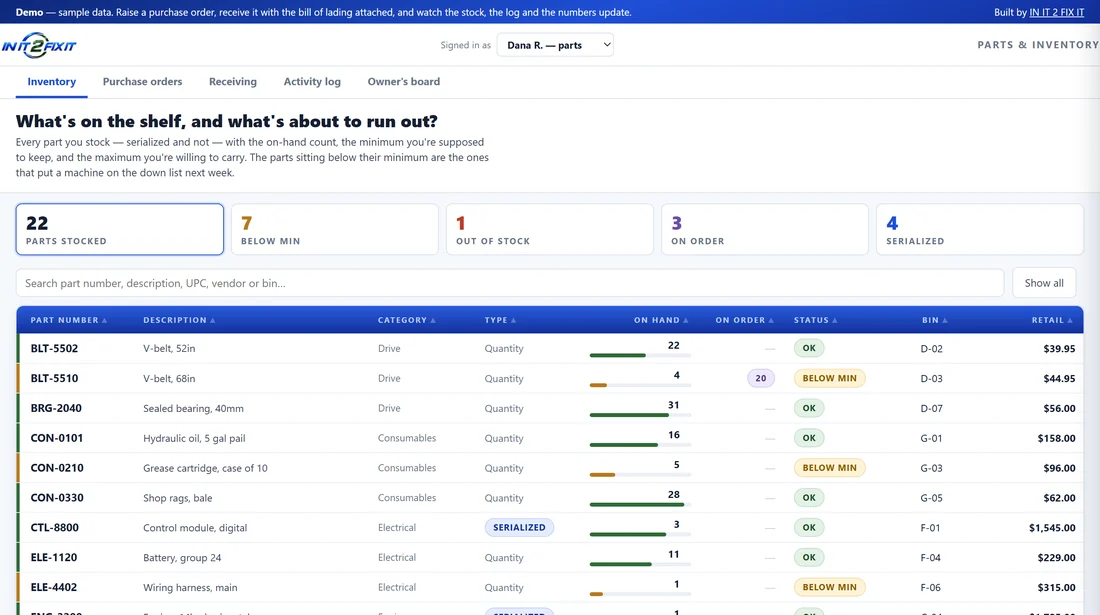
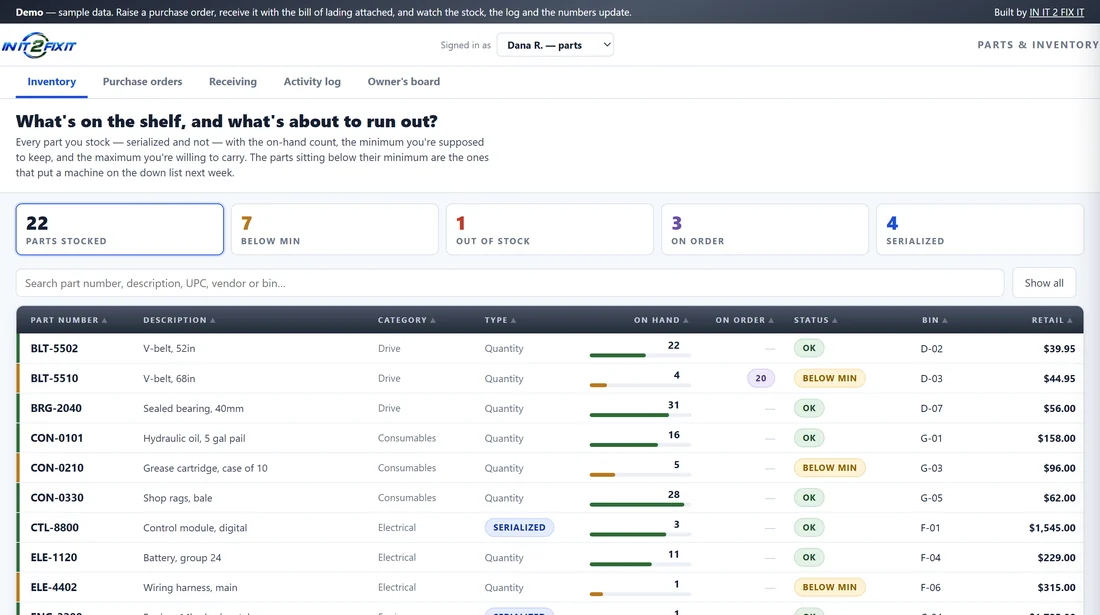
Give the parts board its own colour, and green to the middle of the fan
All three boards were reading blue, blue and green, so the fan looked like
one product photographed three times. The parts board moves to graphite -
neutral, so it cannot fight the brand blue and green, and industrial enough
to suit a parts room. Amber was avoided because the board already uses it for
below-minimum warnings.

Fan reorders to blue, green, graphite with the crew board in the centre.
Inventory screenshot recaptured.

Changed region(s): [[0.0, 0.0, 1.0, 0.0618], [0.0, 0.4943, 0.9891, 0.5561]]

diff --git a/inventory/index.html b/inventory/index.html
@@ -16,7 +16,7 @@
   body{background:var(--soft);color:var(--body);font-family:"Segoe UI",Arial,Helvetica,sans-serif;font-size:14px;line-height:1.45;-webkit-font-smoothing:antialiased}
   .wrap{max-width:1400px;margin:0 auto;padding-left:20px;padding-right:20px}
 
-  .ribbon{background:linear-gradient(160deg,#0E2878,#1E4FD6 55%,#12309B);color:#fff;padding:6px 0;font-size:12.5px}
+  .ribbon{background:linear-gradient(160deg,#1B2230,#4B5566 55%,#272F3D);color:#fff;padding:6px 0;font-size:12.5px}
   .ribbon .wrap{display:flex;justify-content:space-between;align-items:center;gap:12px;flex-wrap:wrap}
   .ribbon b{font-weight:700}
   .ribbon a{color:#fff;text-decoration:underline}
@@ -64,8 +64,8 @@
   .swipe.on{display:block}
   table{width:100%;border-collapse:collapse}
   #tbl{table-layout:fixed;width:100%}
-  th{font-size:10px;letter-spacing:.15em;text-transform:uppercase;font-weight:700;color:#B9CDF4;
-     text-align:left;padding:10px 12px;background:linear-gradient(180deg,#2A5BDD,#12309B);
+  th{font-size:10px;letter-spacing:.15em;text-transform:uppercase;font-weight:700;color:#C2CBD9;
+     text-align:left;padding:10px 12px;background:linear-gradient(180deg,#4B5566,#232B38);
      border-bottom:none;white-space:nowrap;cursor:pointer;user-select:none}
   th:first-child{padding-left:18px}
   th:hover{color:#fff}
@@ -74,7 +74,7 @@
   td{padding:0 12px;border-bottom:1px solid var(--faint);vertical-align:middle;font-size:13px;
      color:var(--body);height:38px;white-space:nowrap;overflow:hidden;text-overflow:ellipsis}
   tbody tr:last-child td{border-bottom:none}
-  tbody tr:hover td{background:#F3F8FF}
+  tbody tr:hover td{background:#F2F4F7}
   tbody tr:hover td:first-child::before{width:6px}
 
   /* status spine down the left edge */
@@ -93,8 +93,8 @@
   td.ed input{width:100%;height:36px;border:none;background:transparent;font:inherit;font-size:13px;
     color:var(--ink);padding:0 10px;cursor:text}
   td.ed.num input{text-align:right;font-variant-numeric:tabular-nums;font-weight:700}
-  td.ed input:hover{background:rgba(30,79,214,.07)}
-  td.ed input:focus{outline:none;background:#fff;box-shadow:inset 0 0 0 2px var(--blue)}
+  td.ed input:hover{background:rgba(75,85,102,.09)}
+  td.ed input:focus{outline:none;background:#fff;box-shadow:inset 0 0 0 2px #4B5566}
   td.countcell{position:relative}
   td.countcell input{padding-bottom:9px}
   td.countcell .bararea{position:absolute;left:10px;right:10px;bottom:7px;margin:0}
@@ -124,14 +124,14 @@
        box-shadow:-8px 0 34px rgba(15,27,46,.22);transform:translateX(102%);
        transition:transform .22s cubic-bezier(.4,0,.2,1);z-index:41;display:flex;flex-direction:column}
   .rec.on{transform:translateX(0)}
-  .rechead{padding:16px 20px;background:linear-gradient(160deg,#0E2878,#1E4FD6 60%,#12309B);color:#fff;flex:none}
+  .rechead{padding:16px 20px;background:linear-gradient(160deg,#1B2230,#414B5E 58%,#272F3D);color:#fff;flex:none}
   .rechead .pn{font-size:19px;font-weight:800;letter-spacing:-.2px}
-  .rechead .ds{font-size:13.5px;color:#CFE0FF;margin-top:1px}
+  .rechead .ds{font-size:13.5px;color:#C8D1DF;margin-top:1px}
   .rechead .x{position:absolute;top:13px;right:16px;width:28px;height:28px;border:none;border-radius:6px;
     background:rgba(255,255,255,.16);color:#fff;font-size:17px;line-height:1;cursor:pointer;font-family:inherit}
   .rechead .x:hover{background:rgba(255,255,255,.28)}
   .recbody{padding:16px 20px 26px;overflow-y:auto;flex:1}
-  .sect{font-size:10px;letter-spacing:.15em;text-transform:uppercase;font-weight:800;color:var(--green-mid);
+  .sect{font-size:10px;letter-spacing:.15em;text-transform:uppercase;font-weight:800;color:#4B5566;
         margin:16px 0 7px;padding-bottom:5px;border-bottom:1px solid var(--faint)}
   .sect:first-child{margin-top:0}
   .kv{display:flex;justify-content:space-between;gap:14px;padding:5px 0;font-size:13.5px}

diff --git a/index.html b/index.html
@@ -304,13 +304,13 @@
       unit out, close out a stop, receive a delivery. Nothing to install and nothing to sign up for.</p>
 
       <div class="fan">
-        <a class="fancard a" href="crews/" aria-label="Open the crew board demo">
-          <img src="shots/crews.webp" width="1100" height="615" alt="Crew board &mdash; every property on today&rsquo;s schedule, which crew has it, and the hours against contract budget" loading="lazy">
-          <span class="ftag">Crew board</span>
-        </a>
-        <a class="fancard b" href="board/" aria-label="Open the rental board demo">
+        <a class="fancard a" href="board/" aria-label="Open the rental board demo">
           <img src="shots/board.webp" width="1100" height="615" alt="Rental board &mdash; where every unit is, who has it, what is overdue and what is waiting on service" loading="lazy">
           <span class="ftag">Rental board</span>
+        </a>
+        <a class="fancard b" href="crews/" aria-label="Open the crew board demo">
+          <img src="shots/crews.webp" width="1100" height="615" alt="Crew board &mdash; every property on today&rsquo;s schedule, which crew has it, and the hours against contract budget" loading="lazy">
+          <span class="ftag">Crew board</span>
         </a>
         <a class="fancard c" href="inventory/" aria-label="Open the parts and inventory demo">
           <img src="shots/inventory.webp" width="1100" height="615" alt="Parts and inventory &mdash; serialized and non-serialized stock with reorder points, purchase orders and receiving" loading="lazy">
